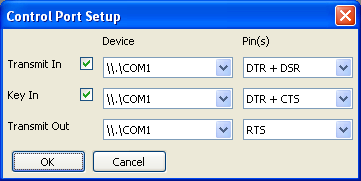
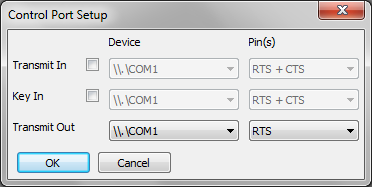
Ready for the first beta release of 0.9.1.

diff --git a/trunk/Software/Help/GUISetup/ControlPort.htm b/trunk/Software/Help/GUISetup/ControlPort.htm
@@ -3,7 +3,7 @@
 <title>The Control Port Setup Screen</title>
 </head>
 <body>
-<p><img src="ControlPort.png" width="361" height="181" /></p>
+<p><img src="ControlPort.png" width="372" height="187" /></p>
 <p>If the SDR allows for transmission then it is possible to control the keying and transmit state via the serial port, using the <a href="TXIn.htm">Transmit In</a> and <a href="KeyIn.htm">Key In</a> entries. Both of these may be enabled as needed, and if enabled then the relevant port and connections may be set. It is important that their input pins are different, an error is reported if they conflict.</p>
 <p>If the SDR is something like a SoftRock RXTX then the <a href="TXOut.htm">Transmit Out</a> must be set in order for the transmitter to be controlled. This screen allows for the choice of the port and of the specific pin to control. It is important that this connection does not conflict with those set for <a href="TXIn.htm">Transmit In</a> and <a href="KeyIn.htm">Key In</a>.</p>
 </body>

diff --git a/trunk/Software/Common/SerialControl.cpp b/trunk/Software/Common/SerialControl.cpp
@@ -29,7 +29,6 @@
 #include <IOKit/IOBSD.h>
 #include <sys/param.h>
 #elif defined(__WINDOWS__)
-#include <setupapi.h>
 #include <winioctl.h>
 #else
 #include <sys/ioctl.h>
@@ -87,41 +86,25 @@ wxArrayString CSerialControl::getDevs()
 
 	::IOObjectRelease(services);
 #elif defined(__WINDOWS__)
-	HDEVINFO devInfo = ::SetupDiGetClassDevs(&GUID_DEVINTERFACE_COMPORT, NULL, NULL, DIGCF_PRESENT | DIGCF_DEVICEINTERFACE);
-	if (devInfo == INVALID_HANDLE_VALUE) {
-		::wxLogError(wxT("SetupDiGetClassDevs() failed, err=0x%lx"), ::GetLastError());
-		return devices;
-	}
-
-	SP_DEVICE_INTERFACE_DATA ifcData;
-	ifcData.cbSize = sizeof(SP_DEVICE_INTERFACE_DATA);
-
-	DWORD detDataSize = sizeof(SP_DEVICE_INTERFACE_DETAIL_DATA) + 256;
-	char* charData = new char[detDataSize];
-
-	SP_DEVICE_INTERFACE_DETAIL_DATA* detData = (SP_DEVICE_INTERFACE_DETAIL_DATA *)charData;
-	detData->cbSize = sizeof(SP_DEVICE_INTERFACE_DETAIL_DATA);
-
-	for (DWORD i = 0; ::SetupDiEnumDeviceInterfaces(devInfo, NULL, &GUID_DEVINTERFACE_COMPORT, i, &ifcData); i++) {
-		SP_DEVINFO_DATA devData;
-		devData.cbSize = sizeof(SP_DEVINFO_DATA);
-
-		BOOL ret = ::SetupDiGetDeviceInterfaceDetail(devInfo, &ifcData, detData, detDataSize, NULL, &devData);
-		if (!ret) {
-			::wxLogError(wxT("SetupDiGetDeviceInterfaceDetail() failed, err=0x%lx"), ::GetLastError());
-			return devices;
-		}
-
-		devices.Add(detData->DevicePath);
-	}
-
-	if (::GetLastError() != NO_ERROR && ::GetLastError() != ERROR_NO_MORE_ITEMS) {
-		::wxLogError(wxT("SetupDiEnumDeviceInterfaces() failed, err=0x%lx"), ::GetLastError());
-		return devices;
-	}
-
-	delete[] charData;
-	::SetupDiDestroyDeviceInfoList(devInfo);
+	devices.Add(wxT("\\\\.\\COM1"));
+	devices.Add(wxT("\\\\.\\COM2"));
+	devices.Add(wxT("\\\\.\\COM3"));
+	devices.Add(wxT("\\\\.\\COM4"));
+	devices.Add(wxT("\\\\.\\COM5"));
+	devices.Add(wxT("\\\\.\\COM6"));
+	devices.Add(wxT("\\\\.\\COM7"));
+	devices.Add(wxT("\\\\.\\COM8"));
+	devices.Add(wxT("\\\\.\\COM9"));
+	devices.Add(wxT("\\\\.\\COM10"));
+	devices.Add(wxT("\\\\.\\COM11"));
+	devices.Add(wxT("\\\\.\\COM12"));
+	devices.Add(wxT("\\\\.\\COM13"));
+	devices.Add(wxT("\\\\.\\COM14"));
+	devices.Add(wxT("\\\\.\\COM15"));
+	devices.Add(wxT("\\\\.\\COM16"));
+	devices.Add(wxT("\\\\.\\COM17"));
+	devices.Add(wxT("\\\\.\\COM18"));
+	devices.Add(wxT("\\\\.\\COM19"));
 #else
 	devices.Add(wxT("/dev/ttyS0"));
 	devices.Add(wxT("/dev/ttyS1"));
@@ -219,7 +202,7 @@ bool CSerialControl::open()
 
 	m_handle = ::CreateFile(m_dev.c_str(), GENERIC_READ | GENERIC_WRITE, 0, NULL, OPEN_EXISTING, 0, NULL);
 	if (m_handle == INVALID_HANDLE_VALUE) {
-		::wxLogError(wxT("SerialControl: cannot open the serial port - %ld"), ::GetLastError());
+		::wxLogError(wxT("SerialControl: cannot open the serial port - %lu"), ::GetLastError());
 		return false;
 	}
 
@@ -227,7 +210,7 @@ bool CSerialControl::open()
 	if (::GetCommState(m_handle, &dcb) == 0) {
 		::ClearCommError(m_handle, &errCode, NULL);
 		::CloseHandle(m_handle);
-		::wxLogError(wxT("SerialControl: cannot get the serial port status - %ld"), ::GetLastError());
+		::wxLogError(wxT("SerialControl: cannot get the serial port status - %lu"), ::GetLastError());
 		return false;
 	}
 
@@ -239,7 +222,7 @@ bool CSerialControl::open()
 	if (::SetCommState(m_handle, &dcb) == 0) {
 		::ClearCommError(m_handle, &errCode, NULL);
 		::CloseHandle(m_handle);
-		::wxLogError(wxT("SerialControl: cannot set the serial port status - %ld"), ::GetLastError());
+		::wxLogError(wxT("SerialControl: cannot set the serial port status - %lu"), ::GetLastError());
 		return false;
 	}
 
@@ -264,7 +247,7 @@ void* CSerialControl::Entry()
 		DWORD errCode;
 		if (::GetCommModemStatus(m_handle, &status) == 0) {
 			::ClearCommError(m_handle, &errCode, NULL);
-			::wxLogError(wxT("SerialControl: cannot get the serial port status - %ld"), ::GetLastError());
+			::wxLogError(wxT("SerialControl: cannot get the serial port status - %lu"), ::GetLastError());
 		} else {
 			m_cts = (status & MS_CTS_ON) == MS_CTS_ON;
 			m_dsr = (status & MS_DSR_ON) == MS_DSR_ON;
@@ -292,7 +275,7 @@ bool CSerialControl::setRTS(bool set)
 
 	if (::EscapeCommFunction(m_handle, rts) == 0) {
 		::ClearCommError(m_handle, &errCode, NULL);
-		::wxLogError(wxT("SerialControl: cannot set RTS - %ld"), ::GetLastError());
+		::wxLogError(wxT("SerialControl: cannot set RTS - %lu"), ::GetLastError());
 		return false;
 	}
 
@@ -313,7 +296,7 @@ bool CSerialControl::setDTR(bool set)
 
 	if (::EscapeCommFunction(m_handle, dtr) == 0) {
 		::ClearCommError(m_handle, &errCode, NULL);
-		::wxLogError(wxT("SerialControl: cannot set DTR - %ld"), ::GetLastError());
+		::wxLogError(wxT("SerialControl: cannot set DTR - %lu"), ::GetLastError());
 		return false;
 	}
 

diff --git a/trunk/Software/Common/SI570Controller.cpp b/trunk/Software/Common/SI570Controller.cpp
@@ -124,6 +124,8 @@ bool CSI570Controller::open()
 			::SetupDiDestroyDeviceInfoList(devInfo);
 			::free(detailData);
 
+wxLogInfo(wxT("Found the Si570 device"));
+
 			WINUSB_SETUP_PACKET packet;
 			packet.RequestType = (BMREQUEST_DEVICE_TO_HOST << 7) | (BMREQUEST_VENDOR << 5) | BMREQUEST_TO_DEVICE;
 			packet.Request = REQUEST_GET_VERSION;
@@ -131,16 +133,18 @@ bool CSI570Controller::open()
 			packet.Index = 0U;
 			packet.Length = 2U;
 
-			ULONG sent = 0UL;
+			ULONG rcvd = 0UL;
 			unsigned char version[2U];
-			BOOL result = ::WinUsb_ControlTransfer(m_handle, packet, version, 2UL, &sent, NULL);
+			BOOL result = ::WinUsb_ControlTransfer(m_handle, packet, version, 2UL, &rcvd, NULL);
+
+wxLogInfo(wxT("Si570 replied to version with %d, %lu 0x%02X 0x%02X"), int(result), rcvd, version[0U], version[1U]);
 
 			if (!result) {
 				::wxLogError(wxT("Error from WinUsb_ControlTransfer: err=%lu"), ::GetLastError());
 				::WinUsb_Free(m_handle);
 				::CloseHandle(m_file);
 				return false;
-			} else if (sent == 2) {
+			} else if (rcvd == 2) {
 				::wxLogMessage(wxT("SI570Controller version: %u.%u"), version[1U], version[0U]);
 				return true;
 			} else {
@@ -169,6 +173,8 @@ bool CSI570Controller::setFrequency(const CFrequency& freq)
 	double dFrequency = double(freq.get()) / 1000000.0;
 
 	wxUint32 frequency = wxUint32(dFrequency * (1UL << 21));
+
+wxLogInfo(wxT("Sent frequency %.6lf MHz: %lu to the Si570"), dFrequency, frequency);
 
 	ULONG sent = 0UL;
 	BOOL result = ::WinUsb_ControlTransfer(m_handle, packet, (UCHAR*)&frequency, 4UL, &sent, NULL);

diff --git a/trunk/Software/Common/Common.h b/trunk/Software/Common/Common.h
@@ -24,7 +24,7 @@
 
 const wxString VERSION  = wxT("uWave SDR 0.9.1");
 
-const wxDateTime::wxDateTime_t REL_DATE_DAY   = 9;
+const wxDateTime::wxDateTime_t REL_DATE_DAY   = 10;
 const wxDateTime::Month        REL_DATE_MONTH = wxDateTime::Oct;
 const unsigned int             REL_DATE_YEAR  = 2013;
 

diff --git a/trunk/Software/Common/SDRDescrFile.cpp b/trunk/Software/Common/SDRDescrFile.cpp
@@ -100,7 +100,7 @@ m_valid(false)
 		}
 	}
 
-	if (m_type == TYPE_AUDIORX)
+	if (m_type == TYPE_AUDIORX || m_type == TYPE_SI570RX)
 		m_receiveOnly = true;
 
 	m_valid = true;
